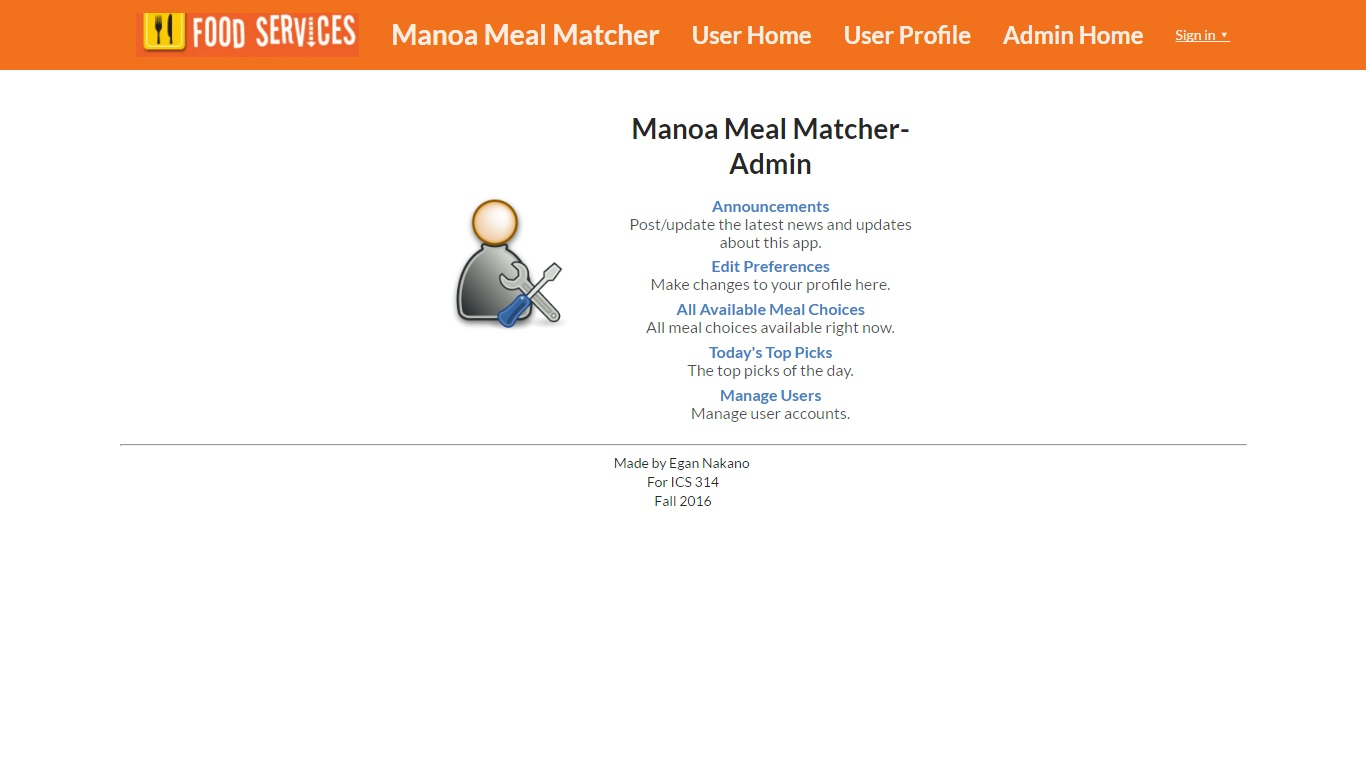
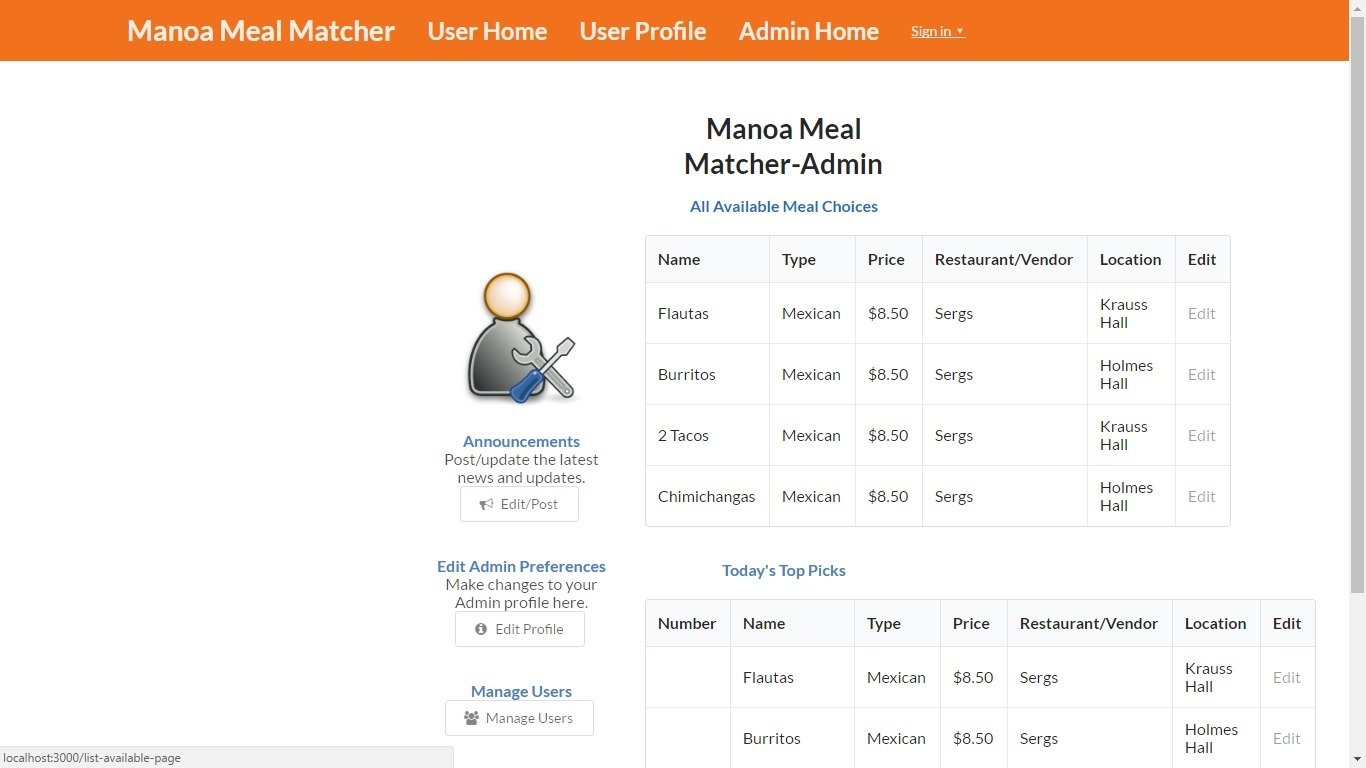
revisions and new screenshots

diff --git a/app/imports/ui/pages/admin-home-page.html b/app/imports/ui/pages/admin-home-page.html
@@ -1,40 +1,108 @@
 <template name="Admin_Home_Page">
 
   <div class="ui middle aligned centered grid text container">
-
-
-    <div class="four wide column">
-      <img class="ui small image" src="/images/Admin-Users.png"/>
-    </div>
-
-    <div class="eight wide column">
-      <h1>Manoa Meal Matcher-Admin</h1>
+    {{#if Template.subscriptionsReady}}
+    <div class="five wide column">
+      <img class="ui small centered image" src="/images/Admin-Users.png"/>
 
       <div class="ui link list">
         <div class="item">
           <a class="header" href="{{pathFor 'Announcements_Page'}}">Announcements</a>
-          <div class="description">Post/update the latest news and updates about this app.</div>
+          <div class="description">Post/update the latest news and updates.</div>
+          <button class="ui basic button" href="{{pathFor 'Announcements_Page'}}">
+            <i class="announcement icon"></i>Edit/Post</button>
         </div>
+        <div class="ui horizontal divider"></div>
         <div class="item">
-        <a class="header" href="{{pathFor 'User_Profile_Page'}}">Edit Preferences</a>
-        <div class="description">Make changes to your profile here.</div>
+          <a class="header" href="{{pathFor 'User_Profile_Page'}}">Edit Admin Preferences</a>
+          <div class="description">Make changes to your Admin profile here.</div>
+          <button class="ui basic button" href="{{pathFor 'List_Users_Page'}}">
+            <i class="info circle icon"></i>Edit Profile</button>
         </div>
-        <div class="item">
-        <a class="header" href="{{pathFor 'List_Available_Page'}}">All Available Meal Choices</a>
-          <div class="description">All meal choices available right now.</div>
-        </div>
-        <div class="item">
-          <a class="header" href="{{pathFor 'Top_Picks_Page'}}">Today's Top Picks</a>
-        <div class="description">The top picks of the day.</div>
-      </div>
+        <div class="ui horizontal divider"></div>
         <div class="item">
           <a class="header" href="{{pathFor 'List_Users_Page'}}">Manage Users</a>
-          <div class="description">Manage user accounts.</div>
+          <button class="ui basic button" href="{{pathFor 'List_Users_Page'}}">
+            <i class="users icon"></i>Manage Users</button>
         </div>
       </div>
 
     </div>
 
+    <div class="seven wide column">
+
+      <h1>Manoa Meal Matcher-Admin</h1>
+      <div class="ui link list">
+
+        <div class="item">
+        <a class="header" href="{{pathFor 'List_Available_Page'}}">All Available Meal Choices</a>
+
+          <table style="margin-top: 20px" class="ui celled table">
+            <thead>
+            <tr>
+              <th>Name</th>
+              <th>Type</th>
+              <th>Price</th>
+              <th>Restaurant/Vendor</th>
+              <th>Location</th>
+              <th>Edit</th>
+            </tr>
+            </thead>
+
+            <tbody>
+            {{#each food in foodList}}
+            <tr>
+              <td>{{food.name}}</td>
+              <td>{{food.type}}</td>
+              <td>{{food.price}}</td>
+              <td>{{food.vendor}}</td>
+              <td>{{food.location}}</td>
+              <td><a href="{{pathFor 'Edit_Stuff_Page' _id=stuff._id}}">Edit</a></td>
+            </tr>
+            {{/each}}
+            </tbody>
+          </table>
+        </div>
+        <div class="ui horizontal divider"></div>
+        <div class="item">
+          <a class="header" href="{{pathFor 'Top_Picks_Page'}}">Today's Top Picks</a>
+
+        <table style="margin-top: 20px" class="ui celled table">
+            <thead>
+            <tr>
+              <th>Number</th>
+              <th>Name</th>
+              <th>Type</th>
+              <th>Price</th>
+              <th>Restaurant/Vendor</th>
+              <th>Location</th>
+              <th>Edit</th>
+            </tr>
+            </thead>
+
+            <tbody>
+            {{#each food in foodList}}
+            <tr>
+              <td></td>
+              <td>{{food.name}}</td>
+              <td>{{food.type}}</td>
+              <td>{{food.price}}</td>
+              <td>{{food.vendor}}</td>
+              <td>{{food.location}}</td>
+              <td><a href="{{pathFor 'Edit_Stuff_Page' _id=stuff._id}}">Edit</a></td>
+            </tr>
+            {{/each}}
+            </tbody>
+          </table>
+
+        </div>
+
+      </div>
+
+    </div>
+    {{else}}
+    {{> Loading}}
+    {{/if}}
   </div>
 
 </template>

diff --git a/app/imports/ui/pages/user-home-page.html b/app/imports/ui/pages/user-home-page.html
@@ -18,15 +18,18 @@
 
     <div class="eight wide column">
       <h1>Welcome to Manoa Meal Matcher</h1>
-
       <div class="ui link list">
         <div class="item">
           <a class="header" href="{{pathFor 'Announcements_Page'}}">Announcements</a>
           <div class="description">Latest news and updates about this app.</div>
+          <button class="ui basic button" href="{{pathFor 'Announcements_Page'}}">
+            <i class="announcement icon"></i>Annoncements</button>
         </div>
         <div class="item">
         <a class="header" href="{{pathFor 'User_Profile_Page'}}">Edit Preferences</a>
         <div class="description">Make changes to your profile and food preferences here.</div>
+          <button class="ui basic button" href="{{pathFor 'List_Users_Page'}}">
+            <i class="info circle icon"></i>Edit Profile</button>
         </div>
         <div class="item">
         <a class="header" href="{{pathFor 'List_Available_Page'}}">All Available Meal Choices</a>

diff --git a/app/imports/ui/pages/admin-home-page.js b/app/imports/ui/pages/admin-home-page.js
@@ -1,5 +1,18 @@
 import { Template } from 'meteor/templating';
+import { Food } from '../../api/food/food.js';
 
+
+Template.Admin_Home_Page.helpers({
+foodList() {
+  return Food.find();
+},
+});
+
+Template.Admin_Home_Page.onCreated(function onCreated() {
+  this.autorun(() => {
+    this.subscribe('Food');
+  });
+});
 
 $('.message .close')
     .on('click', function() {
@@ -8,3 +21,4 @@ $('.message .close')
           .transition('fade')
       ;
     });
+

diff --git a/app/imports/ui/layouts/header.html b/app/imports/ui/layouts/header.html
@@ -1,7 +1,6 @@
 <template name="Header">
     <div class="ui orange top fixed borderless inverted menu">
   <div class="ui container">
-    <a href="http://manoa.hawaii.edu/food/"><img class="ui image item" src="/images/Food Services.jpg"></a>
       <a class="item" href="{{pathFor 'Home_Page'}}"><h1>Manoa Meal Matcher</h1></a>
 
     <a class="item" href="{{pathFor 'User_Home_Page'}}"><h2>User Home</h2></a>

diff --git a/app/imports/ui/pages/home-page.html b/app/imports/ui/pages/home-page.html
@@ -1,8 +1,8 @@
 <template name="Home_Page">
-  <div class="ui middle aligned centered grid text container">
+  <div class="ui middle aligned centered grid text container" >
 
     <div class="four wide column">
-      <img class="ui small image" src="/images/question.jpg"/>
+      <img class="ui small image" src="/images/musubi.png"/>
     </div>
 
     <div class="eight wide column">

diff --git a/app/imports/ui/pages/announcements-page.html b/app/imports/ui/pages/announcements-page.html
@@ -8,7 +8,7 @@
     <div class="eight wide column">
       <h1>Manoa Meal Matcher</h1>
       <img class="ui small centered image" src="/images/announcementsSideTitle.png"/>
-
+      <div class="ui horizontal divider"></div>
       <p>10/25/2016 Pre-Alpha Mockup</p>
 
     </div>
